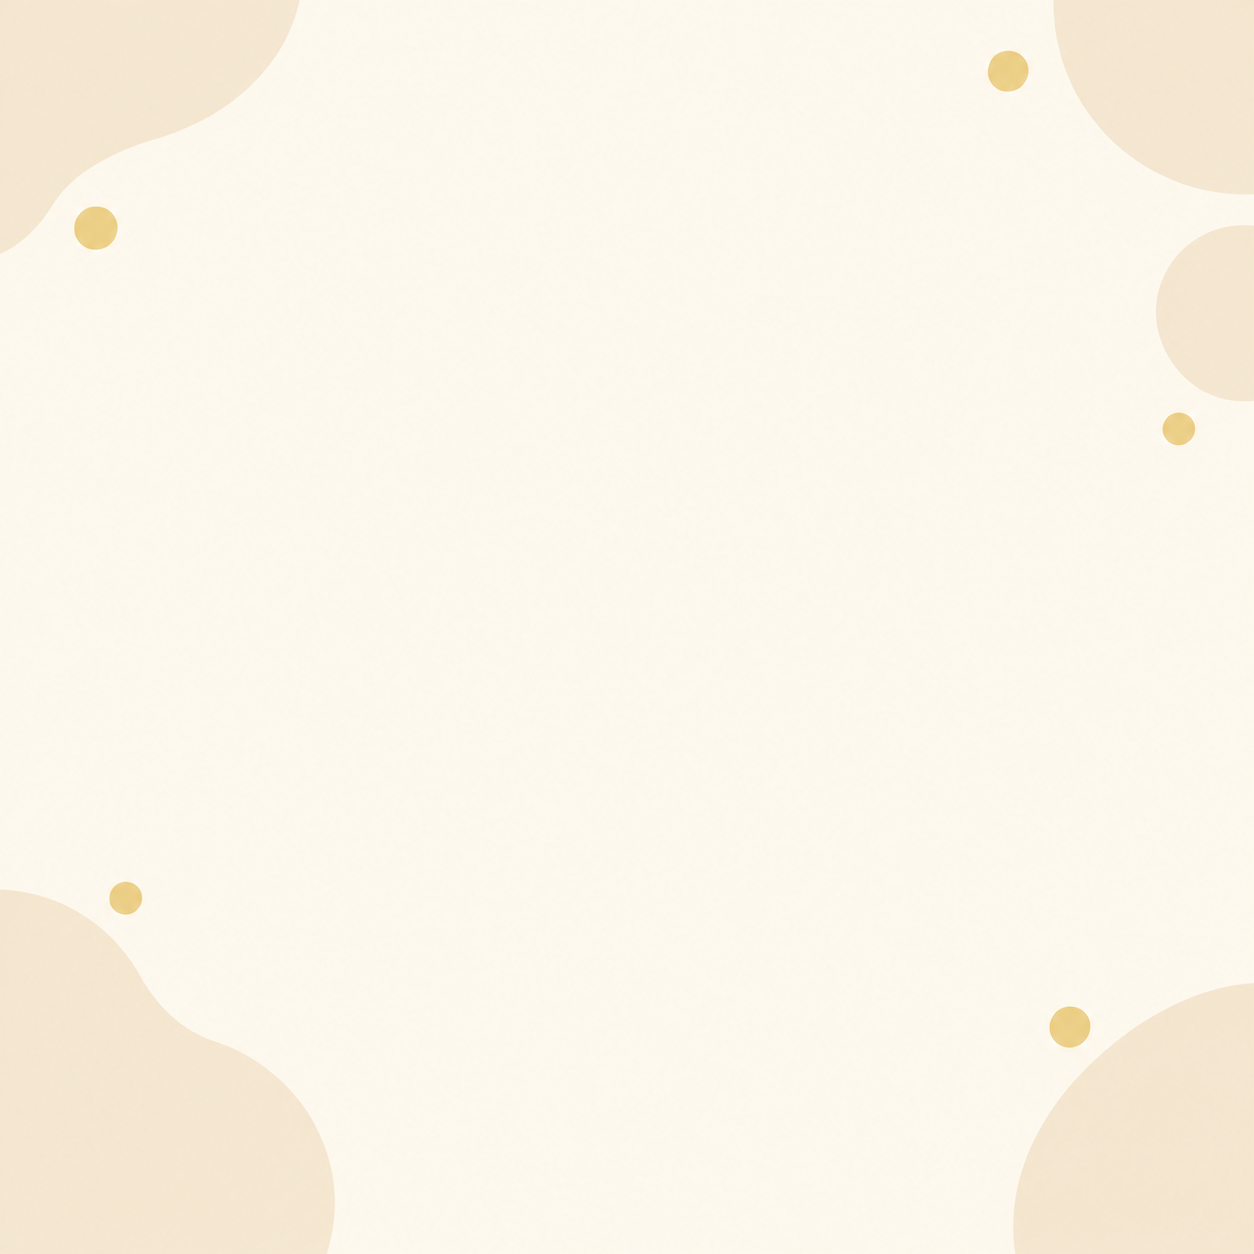
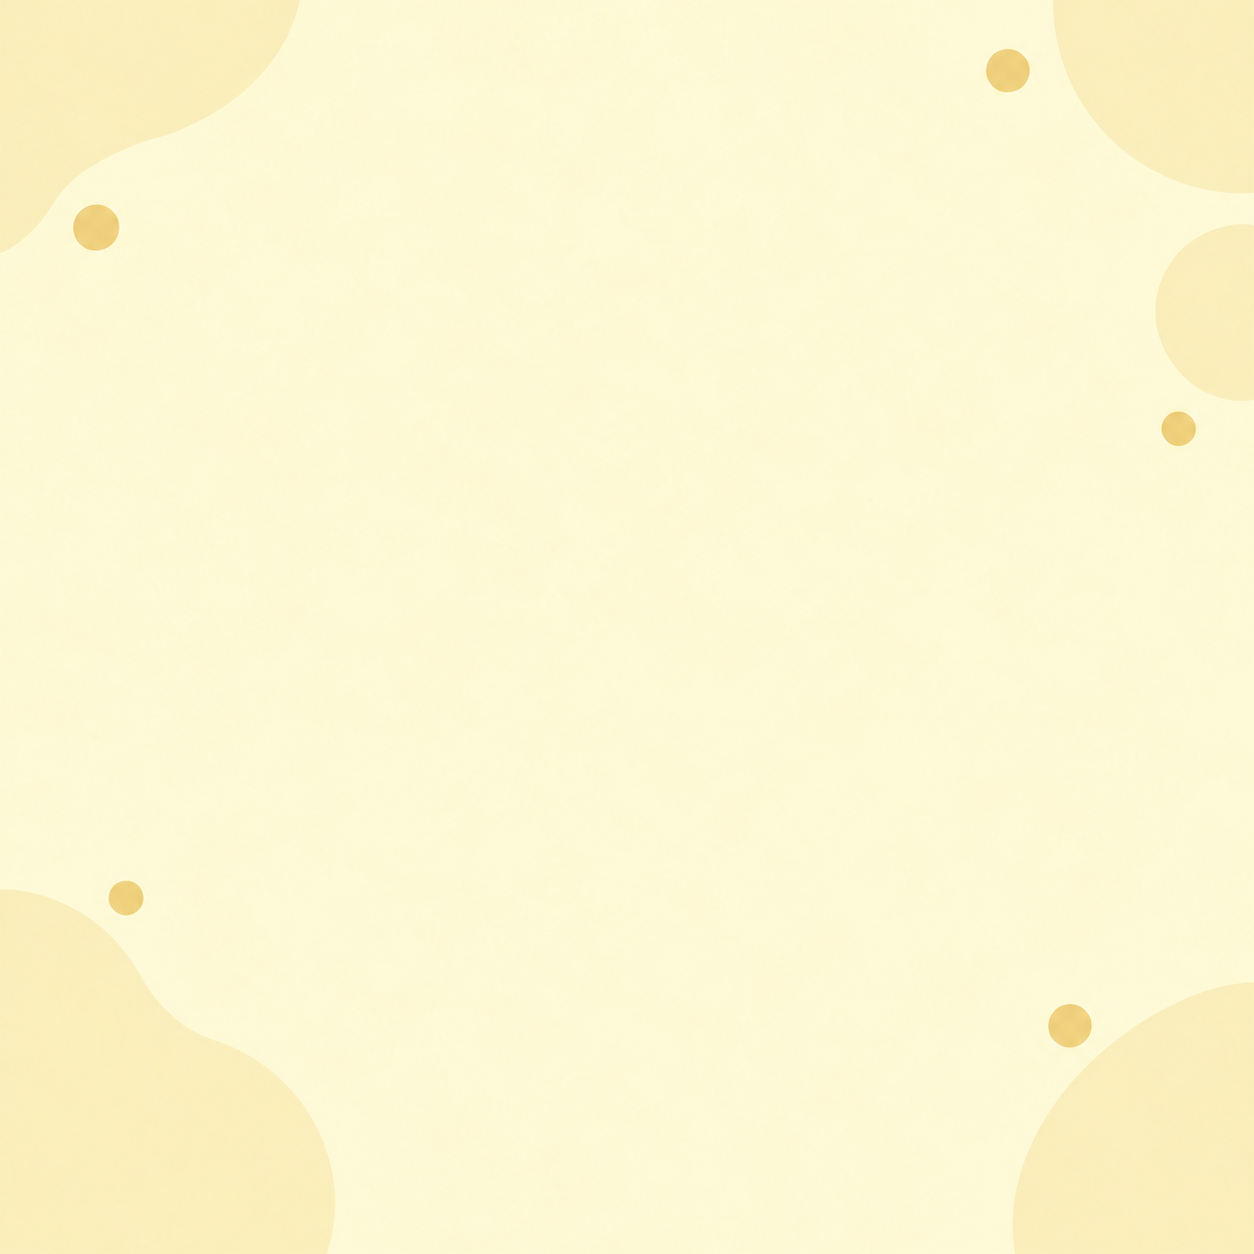
fix: 调整搜索提示限制与邀请活动背景配色

diff --git a/admin/src/pages/HomeContentPage.tsx b/admin/src/pages/HomeContentPage.tsx
@@ -35,7 +35,7 @@ function readConfig(rows: HomeRecord[]): HomeConfig {
     const recommendations = Array.isArray(stored.recommendations) ? stored.recommendations.slice(0, 4).map((entry) => ({ ...blankLink(), ...entry })) : [];
     while (recommendations.length > 1 && !recommendations[recommendations.length - 1].image && !recommendations[recommendations.length - 1].productId) recommendations.pop();
     return {
-      searchText: stored.searchText ?? draft.searchText,
+      searchText: Array.from(stored.searchText ?? draft.searchText).slice(0, 16).join(''),
       banners: banners.length ? banners : [blankLink()],
       recommendations: recommendations.length ? recommendations : [blankLink()],
     };
@@ -251,7 +251,7 @@ export function HomeContentPage() {
 
   return <div className="home-config-page" inert={saving}>
     <div className="floating-save-actions"><Button theme="primary" loading={saving} disabled={!dirty || saving || draftImages.processing} onClick={() => void save()}>保存</Button></div>
-    <Panel><div className="panel-heading"><h3>顶部搜索栏</h3></div><Field label="闪烁文字"><Input value={config.searchText} onChange={(value) => setConfig((old) => ({ ...old, searchText: value }))} placeholder={CONTENT_PLACEHOLDER} maxcharacter={120} /></Field></Panel>
+    <Panel><div className="panel-heading"><h3>顶部搜索栏</h3></div><Field label="提示文字"><Input value={config.searchText} onChange={(value) => setConfig((old) => ({ ...old, searchText: Array.from(value).slice(0, 16).join('') }))} placeholder={CONTENT_PLACEHOLDER} maxlength={16} showLimitNumber /></Field></Panel>
 
     <Panel><div className="panel-heading"><h3>轮播图（9:16）</h3><div className="home-config-panel-actions"><Button disabled={config.banners.length >= 4} onClick={() => setConfig((old) => ({ ...old, banners: [...old.banners, blankLink()] }))}>新增轮播图</Button></div></div>
       {config.banners.map((entry, index) => <div className="home-config-entry" key={index}>

diff --git a/cloudfunctions/tests/regressions.test.ts b/cloudfunctions/tests/regressions.test.ts
@@ -963,6 +963,10 @@ async function testHomeConfigLimitsAndLegacyResponse() {
   const config = { searchText: DEFAULT_SEARCH_TEXT,
     banners: [{ image: 'cloud://home/slide.jpg', productId: 'product-1' }],
     recommendations: [{ image: 'cloud://home/recommend.jpg', productId: 'product-1' }, blank, blank, blank] };
+  for (const searchText of ['', '好'.repeat(16), 'a'.repeat(16), '❤']) {
+    assert.strictEqual(validateHomeConfig({ ...config, searchText }).searchText, searchText);
+  }
+  assert.throws(() => validateHomeConfig({ ...config, searchText: '好'.repeat(17) }), appError('INVALID_ARGUMENT'));
   assert.deepStrictEqual(validateHomeConfig({ ...config, sections: 'retired', promos: 'retired', bannerText: {} }), config);
   for (const count of [0, 1, 2, 3, 4]) {
     assert.strictEqual(validateHomeConfig({ ...config, recommendations: Array(count).fill(blank) }).recommendations.length, count);

diff --git a/cloudfunctions/shared/home-config.ts b/cloudfunctions/shared/home-config.ts
@@ -16,7 +16,7 @@ function imageLink(value, field) {
 function optionalText(value, field, max) {
   assert(typeof value === 'string', { field });
   const text = value.trim();
-  assert(text.length <= max, { field, max });
+  assert(Array.from(text).length <= max, { field, max });
   return text;
 }
 
@@ -27,7 +27,7 @@ function validateHomeConfig(value) {
   assert(banners.length <= 4, { field: 'banners', max: 4 });
   assert(recommendations.length <= 4, { field: 'recommendations', max: 4 });
   return {
-    searchText: optionalText(input.searchText, 'searchText', 120),
+    searchText: optionalText(input.searchText, 'searchText', 16),
     banners: banners.map((item, index) => imageLink(item, `banners.${index}`)),
     recommendations: recommendations.map((item, index) => imageLink(item, `recommendations.${index}`)),
   };

diff --git a/miniprogram/components/top-search/index.ts b/miniprogram/components/top-search/index.ts
@@ -46,7 +46,7 @@ Component({
       try {
         const result = await request('home.get', {});
         const text = result?.config?.searchText;
-        this.setData({ marqueeText: typeof text === 'string' && text.trim() !== '欢迎光临番薯鞋店！' ? text.trim() : '' });
+        this.setData({ marqueeText: typeof text === 'string' && text.trim() !== '欢迎光临番薯鞋店！' ? Array.from(text.trim()).slice(0, 16).join('') : '' });
       } catch { /* 离线时保留当前显示状态 */ }
     },
     focusSearch() {

diff --git a/design/home-promos/README.md b/design/home-promos/README.md
@@ -1,7 +1,7 @@
 # 首页固定活动图片
 
 插画、背景和花字使用内置 imagegen 生成；原始提示词见 `prompts.json`。
-左侧为米金色圆形背景、左边一摞及右边两枚金币、顶部厚圆花字“邀请返现”；右侧为
+左侧为低饱和淡黄色圆形背景、左边一摞及右边两枚金币、顶部厚圆花字“邀请返现”；右侧为
 蜜桃奶油波浪背景、淡紫点缀礼盒和底部手写花字“加客服拿好礼”。两张成品均不透明。
 左侧花字使用 `invite-glyphs.png` 四个独立字形，提示词见 `invite-glyphs-prompt.txt`；
 四字在固定高度沿水平方向分开、短暂停留、再合拢，不上下移动或缩放。
@@ -19,3 +19,5 @@
 GIF 帧时长以 10 毫秒为单位，因此帧间使用 70/80 毫秒，完整循环平均 14 fps。
 
 本目录位于小程序根目录之外，不参与小程序上传。
+
+邀请返现背景改色使用内置 imagegen，仅编辑 `invite-background.png`，以 `gift-background.png` 的柔和饱和度与明度为参考，最终使用低饱和淡柠檬黄。原花字、金币、粒子及动画时间轴通过生成脚本保持；本次背景编辑提示词见 `invite-background-prompt.txt`。
